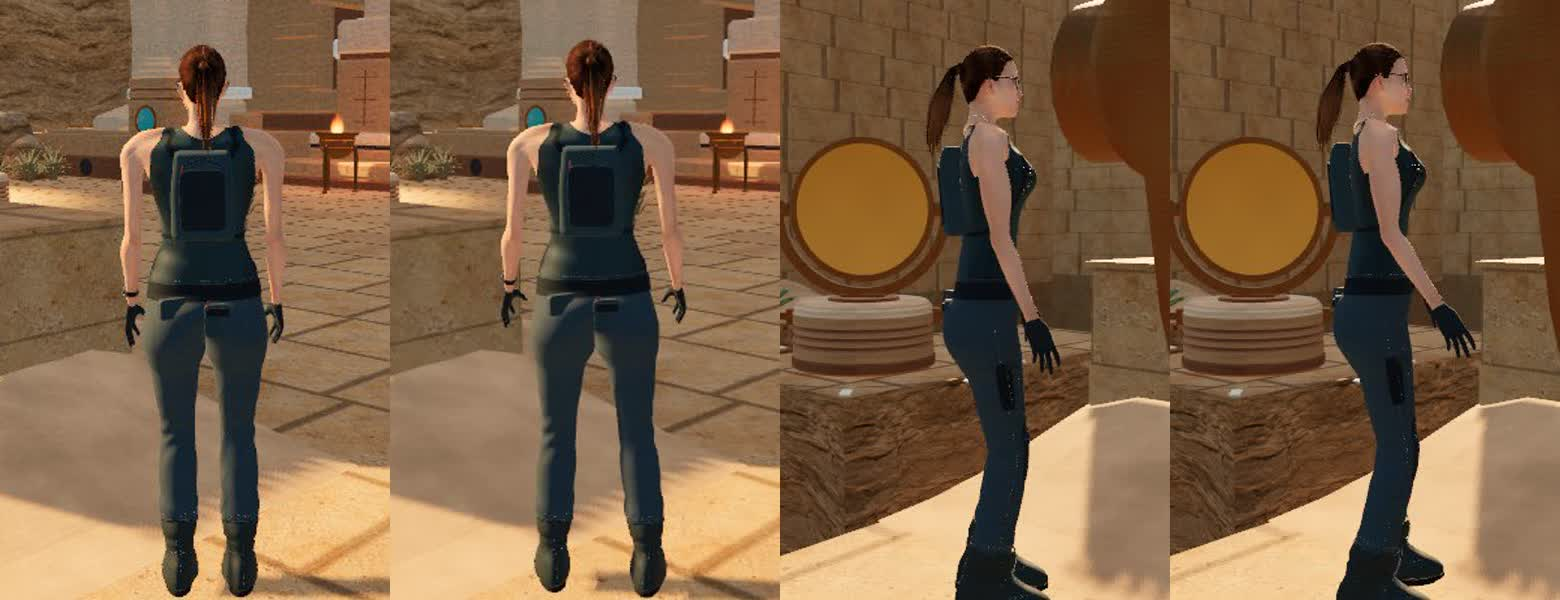
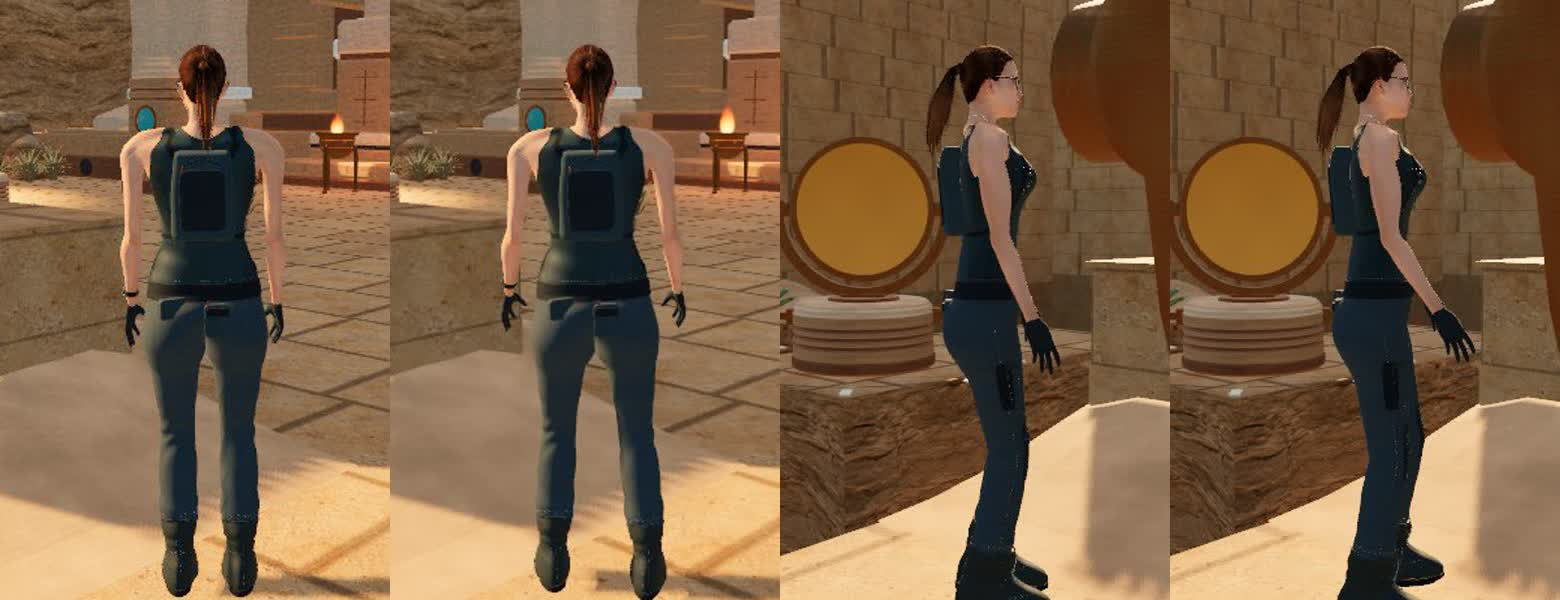
Keep the standing slack above the solve's own, so a planted foot never steps on the spot

diff --git a/game/animation/feet.js b/game/animation/feet.js
@@ -764,11 +764,12 @@ export const feet = {
       const hip = leg.upper.getWorldPosition(new THREE.Vector3()),
         knee = leg.lower.getWorldPosition(new THREE.Vector3()),
         ankle = leg.foot.getWorldPosition(new THREE.Vector3());
-      // A little slack keeps the stride's knees soft; standing, she straightens all but 3 mm.
+      // A little slack keeps the stride's knees soft; standing, she straightens all but 6.5 mm,
+      // still more than the 3 mm the solve below keeps, or a planted foot reads out of reach.
       const length =
         hip.distanceTo(knee) +
         knee.distanceTo(ankle) -
-        mix(mix(0.003, 0.012, moving), 0.009, run);
+        mix(mix(0.0065, 0.012, moving), 0.009, run);
       const destination = at
         .clone()
         .sub(leg.palm.clone().applyQuaternion(rotation));

diff --git a/receipts/verification-idle-posture/README.md b/receipts/verification-idle-posture/README.md
@@ -17,7 +17,7 @@ The owner compared Nyra standing still with a reference frame from another game,
 
 ## Straight knees, a lighter shift
 
-The owner still found her crooked at rest, and the first pass showed why: standing, both knees bent about 20°. The feet's solve lowers the hips until each stance leg is 12 mm short of straight (`feet.js`), slack that keeps the stride's knees soft but left her half crouched when still. Standing, the slack is now 3 mm, so the standing leg bends about 10° and the free one about 19°, against 20° and 21° before ([public release](data/joints-before-public.json), [after](data/joints-after.json)). The weight shift is lighter too: the hips move 2 cm over the standing leg and drop 2° on the free side, the spine and head lean back by about half that. [Before and after](frames/compare-straight-knees.jpg): behind, then the side.
+The owner still found her crooked at rest, and the first pass showed why: standing, both knees bent about 20°. The feet's solve lowers the hips until each stance leg is 12 mm short of straight (`feet.js`), slack that keeps the stride's knees soft but left her half crouched when still. Standing, the slack is now 6.5 mm; it must stay above the 3 mm the final solve keeps, or a planted foot reads as out of reach and steps again and again (a first try at 3 mm did exactly that). Sampled twice a second over 16 s of standing ([`knees.mjs`](scripts/knees.mjs)), the standing leg bends 15° and the free one 16 to 25°, against 20° and 20 to 24° on the public release ([after](data/knees-after.json), [before](data/knees-before-public.json)). The weight shift is lighter too: the hips move 2 cm over the standing leg and drop 2° on the free side, the spine and head lean back by about half that. [Before and after](frames/compare-straight-knees.jpg): behind, then the side.
 
 ## Results
 
